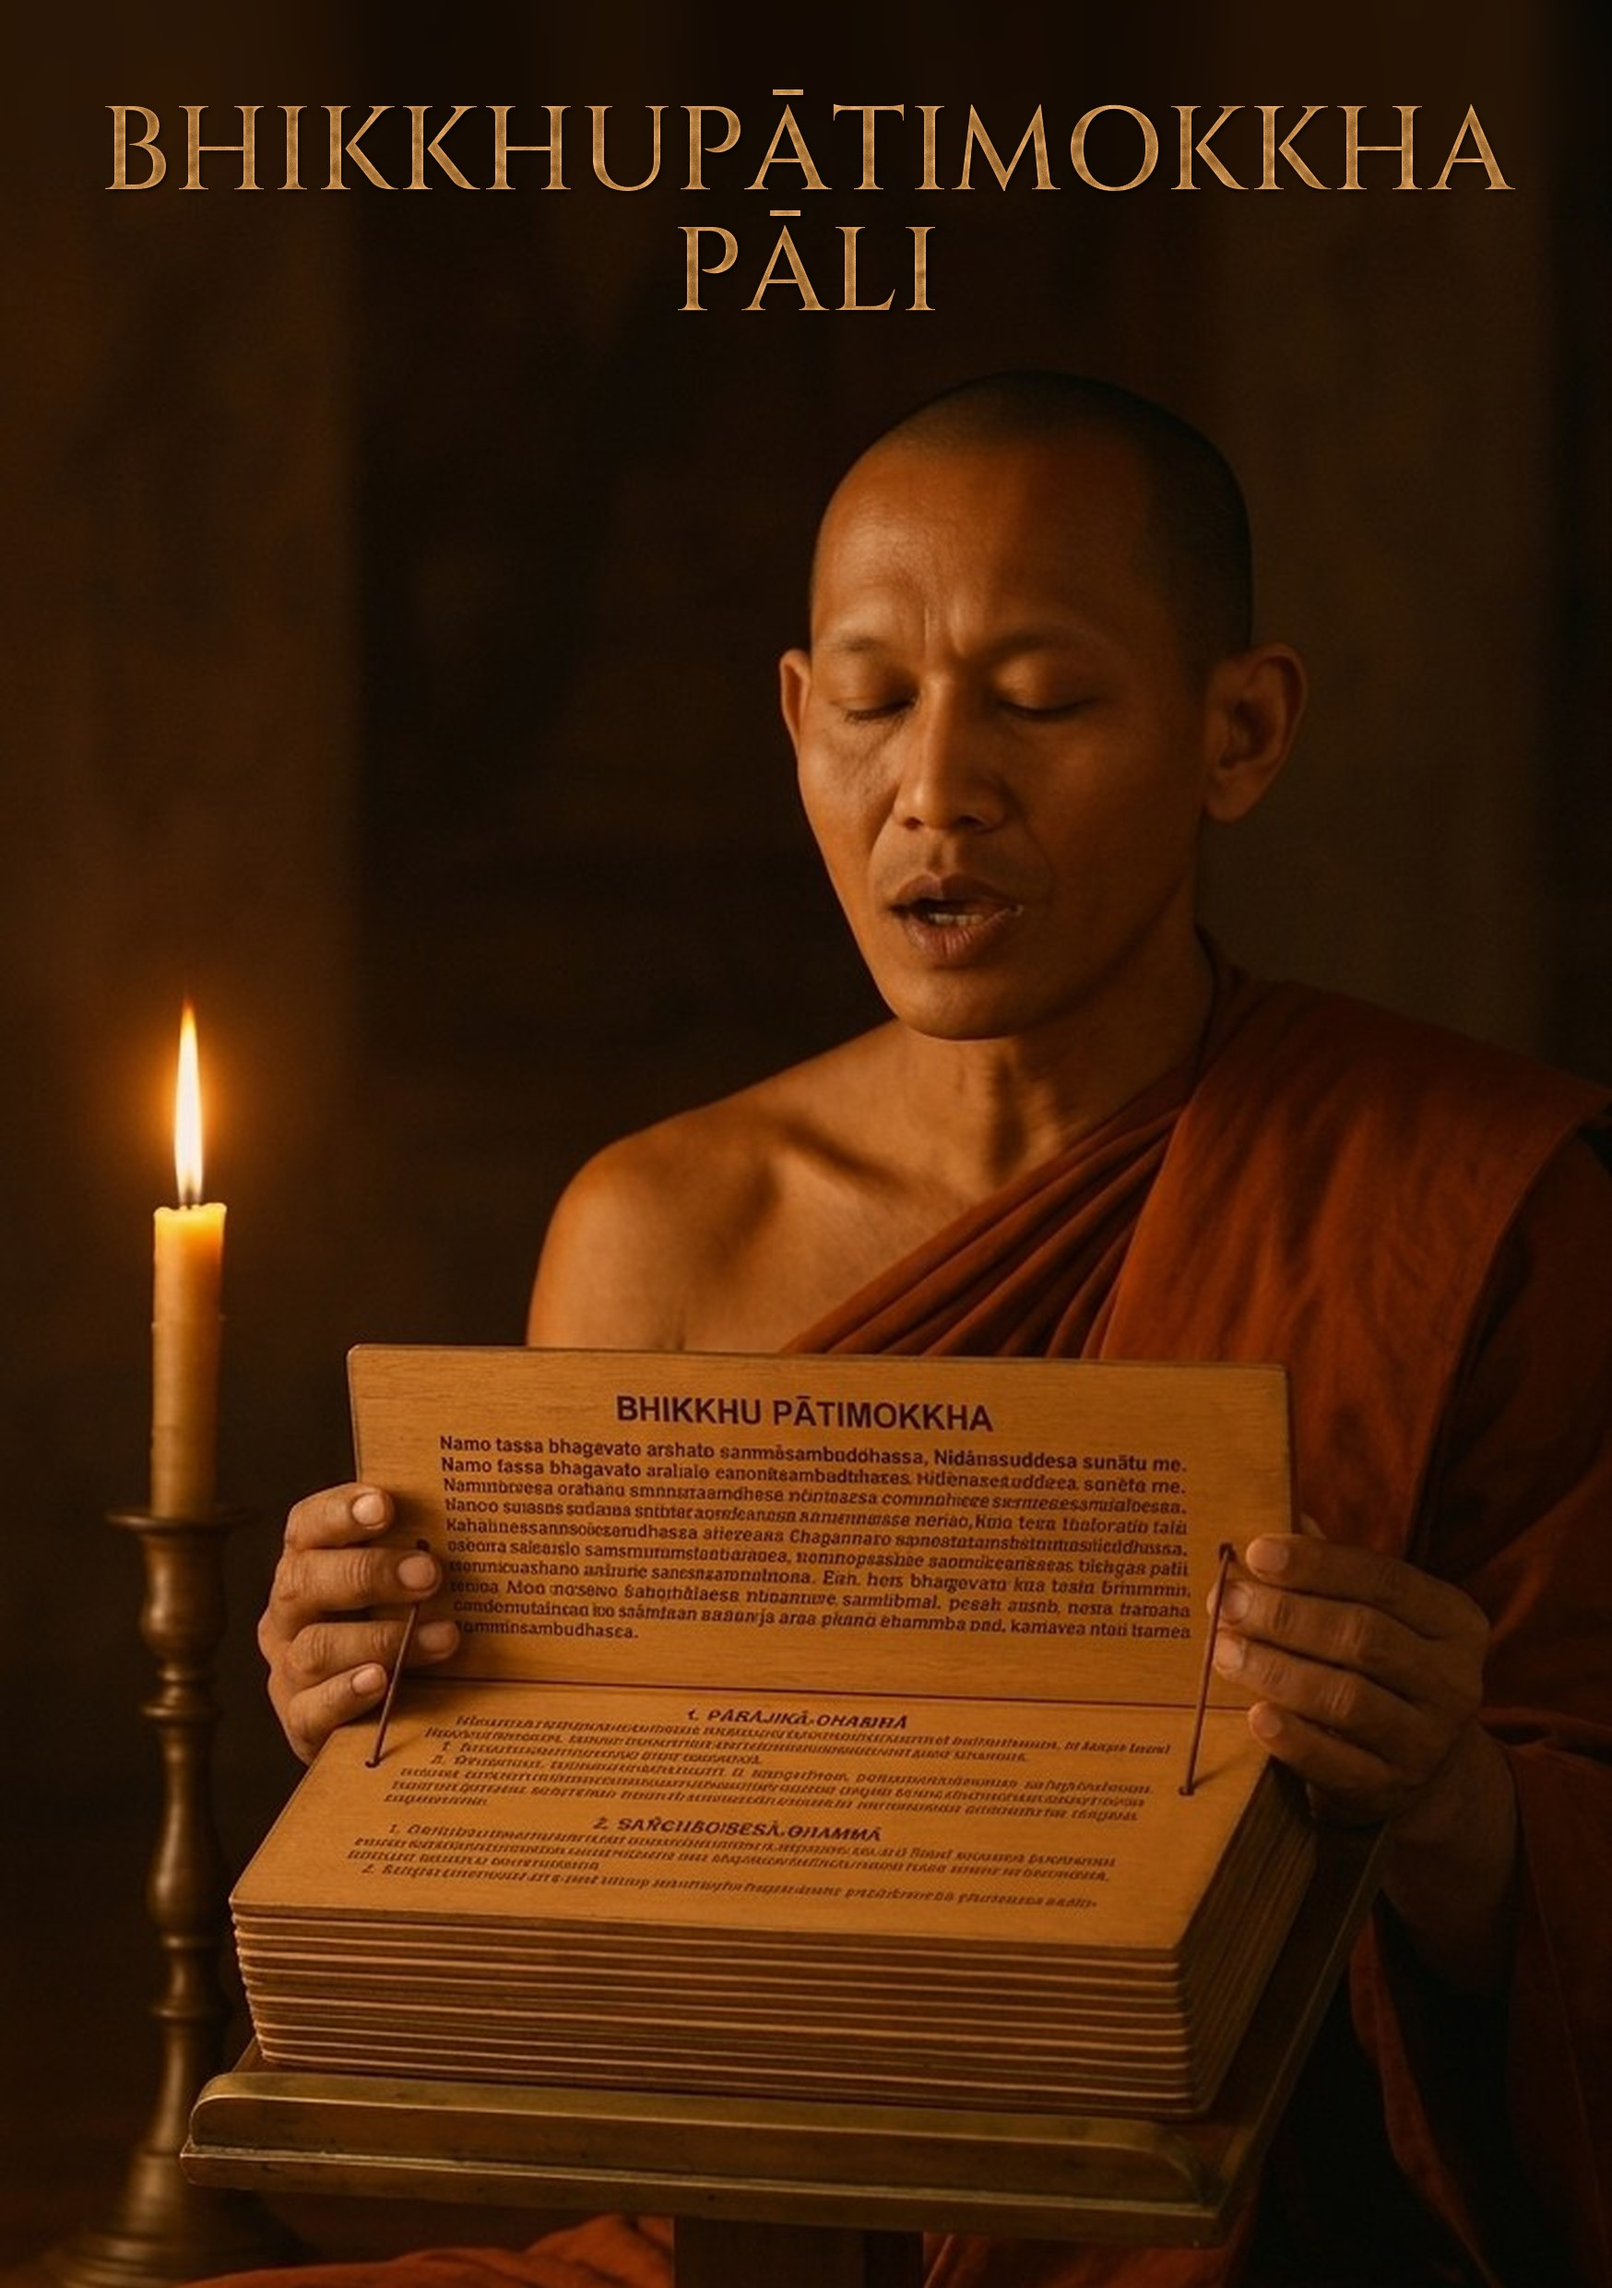
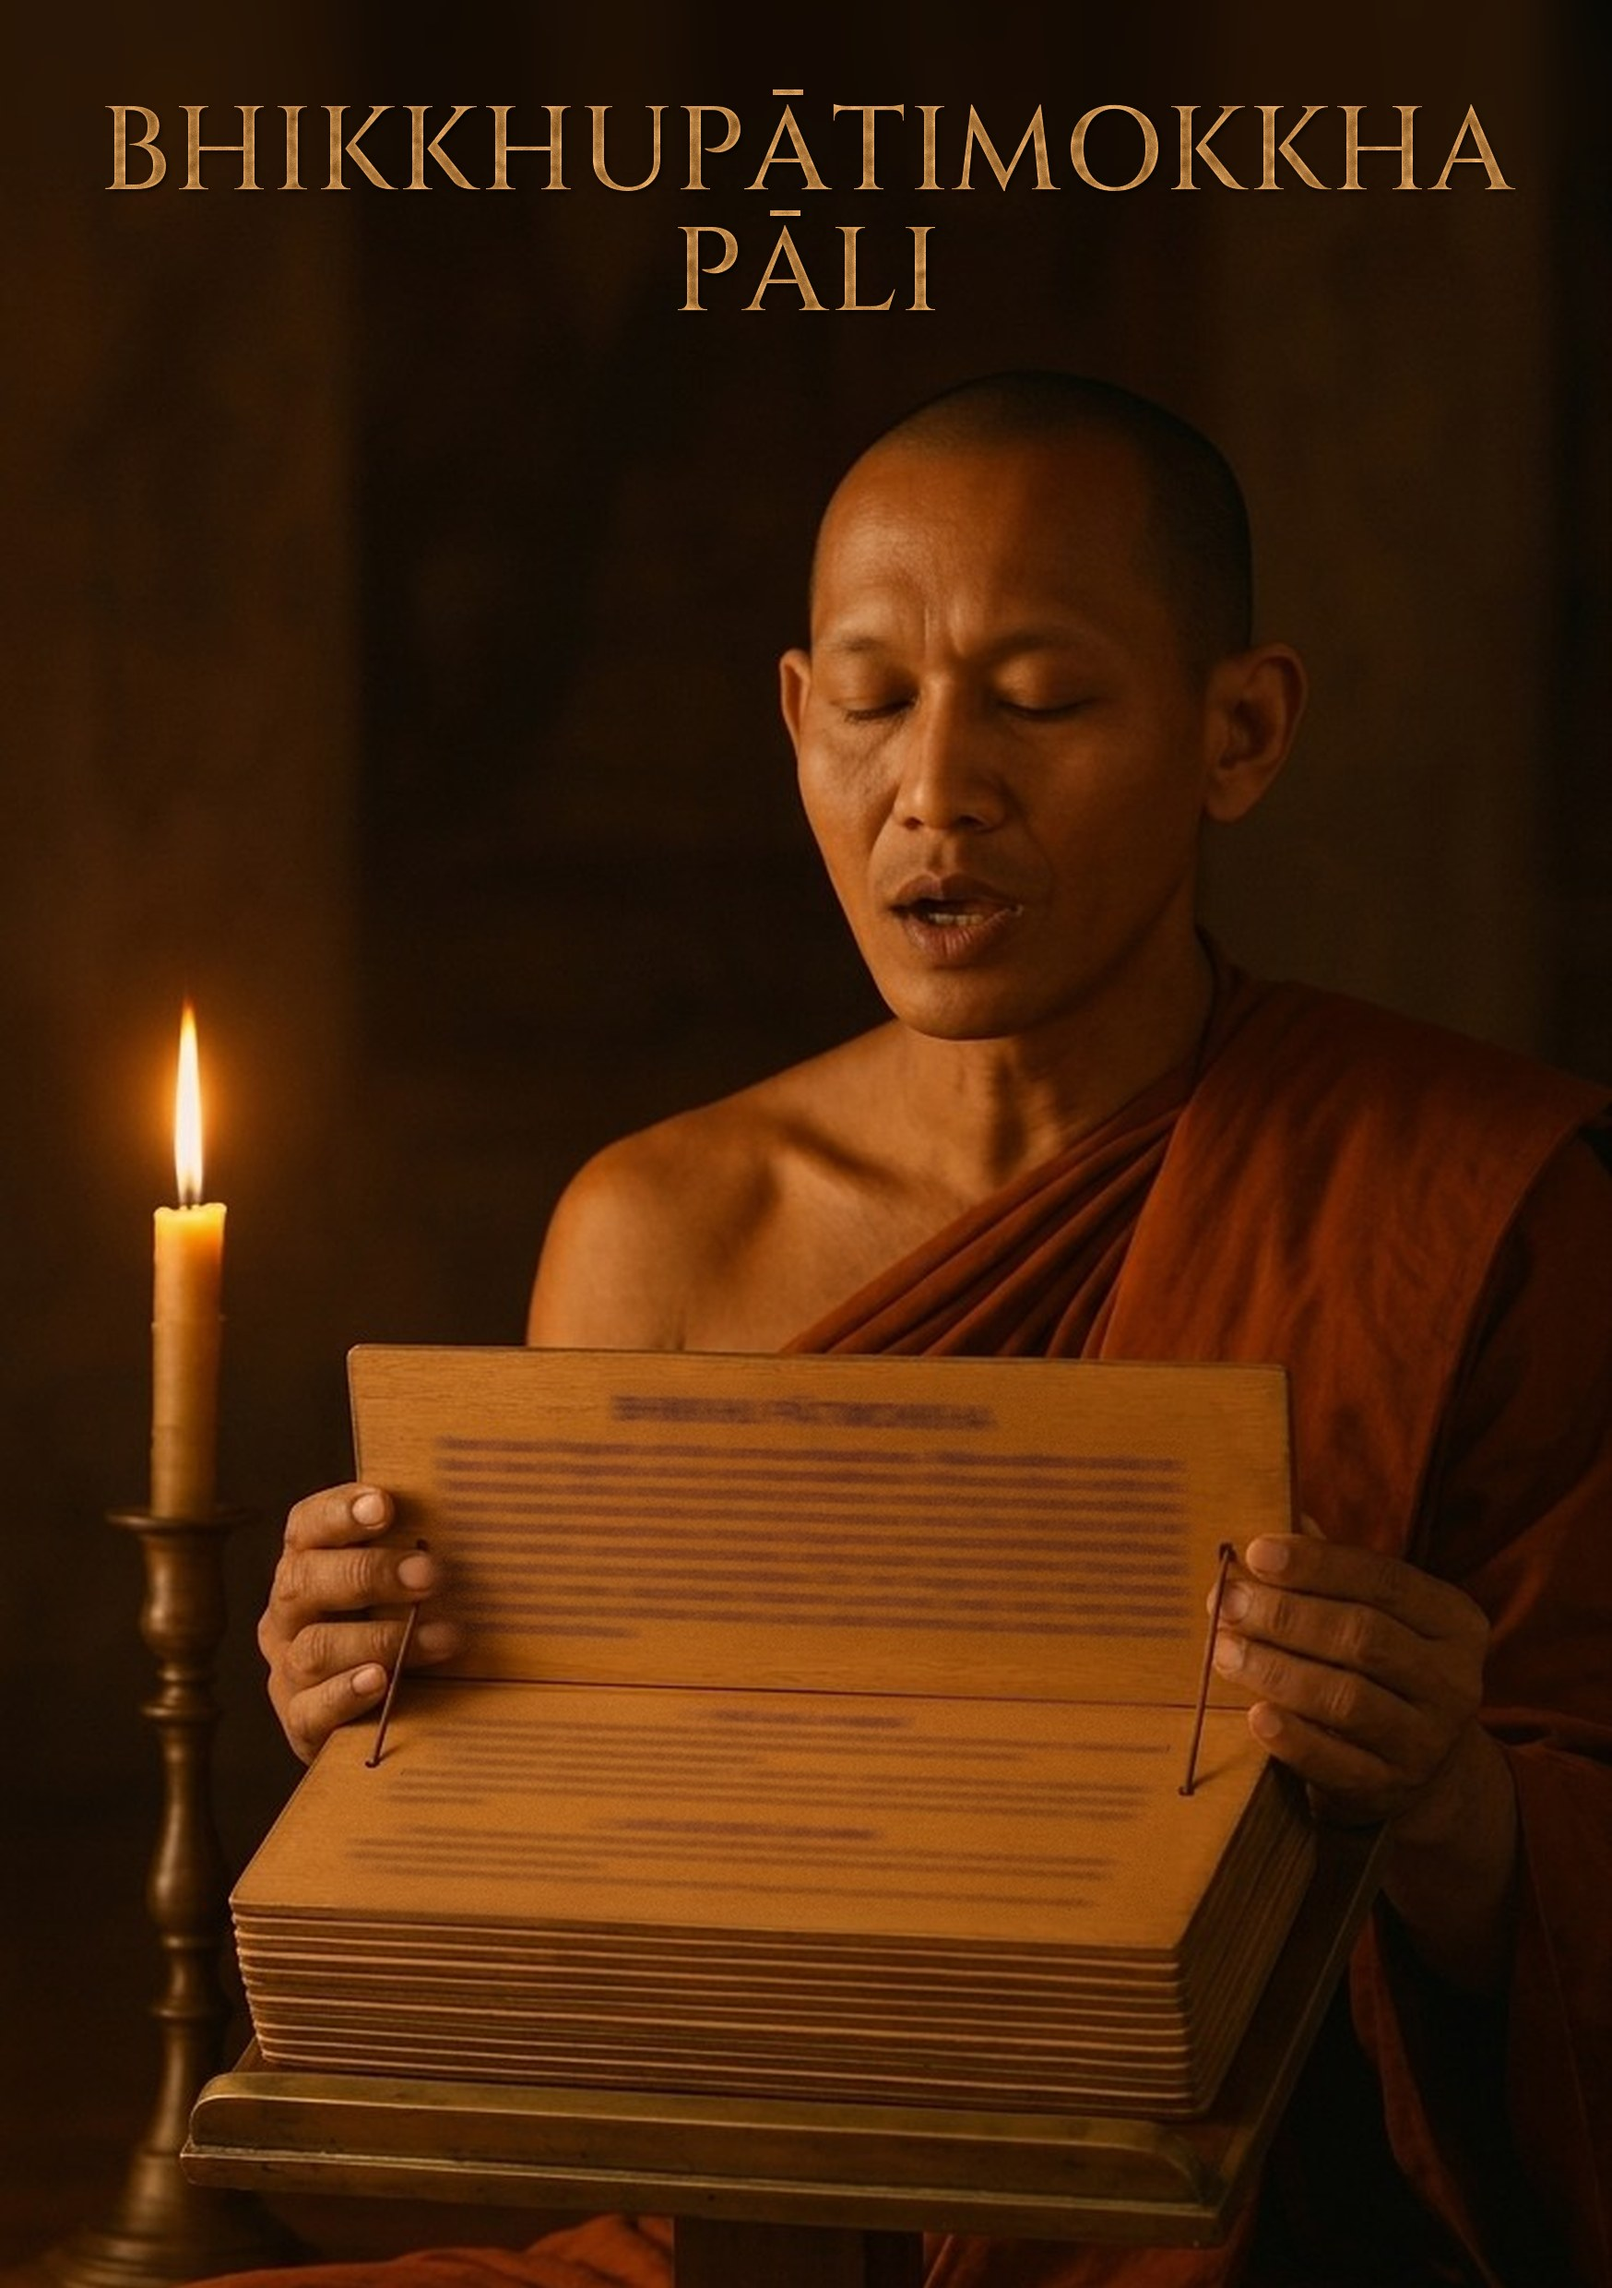
Blur the pseudo-text in the new pictures; EPUB Post-Pātimokkha links Pāli ↔ English
- Pāli and English chapter pictures: the AI-painted pseudo-text on the
  book pages ("BHIKKHU PĀTIMOKKHA", "PĀBAJIKĀ-DHABRA", "THE FIRST CKACH…")
  is blurred along the lines into faint, unreadable script. Hands, cords
  and page edges are untouched (ILLEGIBLE regions in section-titles.py).
- EPUB: the Post-Pātimokkha headings now link Pāli ↔ English within their
  page, matching the PDF (previously they went to the table of contents);
  removed the now-unused nav.xhtml ids.
- CLAUDE.md updated.

Claude-Session: https://claude.ai/code/session_01KQ2yfUidkNtdnxzdx8GaCt

Changed region(s): [[0.278, 0.5899, 0.7414, 0.7141], [0.2471, 0.7452, 0.5561, 0.8383]]

diff --git a/assets/bin/section-titles.py b/assets/bin/section-titles.py
@@ -81,6 +81,47 @@ def gold(img, mask, rng):
 
 PAGE = (1748, 2480)
 
+# Regions (in the untitled original's own pixels) whose painted pseudo-text is
+# blurred into faint, unreadable lines: polygons around the text on the book
+# pages, kept clear of the hands and the binding cords.
+ILLEGIBLE = {
+    'pali': [
+        [(288, 592), (500, 592), (500, 616), (288, 616)],                      # page title
+        [(204, 616), (568, 616), (568, 722), (204, 722)],                      # upper page
+        [(192, 742), (556, 742), (556, 780), (192, 780)],                      # lower page
+        [(160, 780), (556, 780), (556, 848), (160, 848)],
+    ],
+    'english': [
+        [(160, 744), (552, 744), (552, 800), (160, 800)],                      # title + upper page
+        [(172, 800), (552, 800), (552, 866), (172, 866)],
+        [(158, 866), (536, 866), (536, 896), (158, 896)],                      # lower page
+        [(114, 896), (536, 896), (536, 945), (114, 945)],
+        [(114, 945), (522, 945), (522, 988), (114, 988)],
+    ],
+}
+
+
+def illegible(img, polys, seed=3):
+    """Blur the text in polys along the lines so it reads as faint, distant script."""
+    from PIL import ImageDraw
+    w, h = img.size
+    mask = Image.new('L', (w, h), 0)
+    d = ImageDraw.Draw(mask)
+    for poly in polys:
+        d.polygon(poly, fill=255)
+    mask = mask.filter(ImageFilter.GaussianBlur(2))
+    a = np.asarray(img, float)
+    k = 6                                   # horizontal smear (box blur along rows)
+    pad = np.pad(a, ((0, 0), (k, k), (0, 0)), mode='edge')
+    cs = np.cumsum(pad, axis=1)
+    hb = ((cs[:, 2 * k:] - cs[:, :-2 * k]) / (2 * k))[:, :w]
+    soft = np.asarray(Image.fromarray(hb.clip(0, 255).astype(np.uint8)).filter(ImageFilter.GaussianBlur(0.8)), float)
+    paper = np.asarray(img.filter(ImageFilter.GaussianBlur(8)), float)
+    soft = paper + (soft - paper) * 0.7     # fade the lines towards the paper colour
+    soft += np.random.default_rng(seed).normal(0, 3.0, soft.shape[:2])[..., None]   # paper grain
+    m = np.asarray(mask, float)[..., None] / 255
+    return Image.fromarray((a * (1 - m) + soft * m).clip(0, 255).astype(np.uint8))
+
 
 def fit_width(img):
     """Scale to the page width; a taller picture is trimmed at the bottom later."""
@@ -109,7 +150,10 @@ def shift_down(img, dy):
 
 
 def make(name, lines, size, y0, gap, dy, seed=7):
-    img = fit_width(Image.open(os.path.join(SRC, name + '.jpg')).convert('RGB'))
+    img = Image.open(os.path.join(SRC, name + '.jpg')).convert('RGB')
+    if name in ILLEGIBLE:
+        img = illegible(img, ILLEGIBLE[name])
+    img = fit_width(img)
     img = shift_down(img, dy)
     w, h = img.size
     full = np.zeros((h, w), float)

diff --git a/CLAUDE.md b/CLAUDE.md
@@ -38,8 +38,8 @@
   The front cover is 864×1227 (EPUB `cover-image`).
 - EPUB titles: every h1–h3 is a link and uses the PDF's link colour, #60291f (sbs-brown), in `main.css`.
   Pāli/English sections, vaggas and brief-recitation Levels link to their partner heading.
-  `tex2epub.py` does this automatically (`PAIRS`, `link_partner_headings`). The Post-Pātimokkha headings
-  (Pāli and English) link to their entry in `nav.xhtml` (`#toc-…`). Don't link to `contents.xhtml`:
+  `tex2epub.py` does this automatically (`PAIRS`, `link_partner_headings`). The Post-Pātimokkha headings link Pāli ↔ English within their page
+  (e.g. `pubba-bhaga.xhtml#pubba-bhaga-english`), matching the PDF. Don't link to `contents.xhtml`:
   it isn't in the manifest, so epubcheck reports RSC-008.
 - PDF heading links: `\linkheadingto{label}` before a \section/\subsection makes that title link to
   `label` (anecdote.cls `\headinglinktarget`; default is the table of contents). Every Pāli section, vagga,
@@ -50,6 +50,8 @@
   which reads the untitled originals in `assets/illustrations/untitled/` and uses Cinzel Medium
   (`assets/fonts/cinzel`, OFL). The Pāli and English pictures (the user's 768×1376 images; the western
   monk is English) are scaled to page width (2.3×), moved down 150 px for the title and trimmed at the bottom.
+  Their painted pseudo-text on the book pages is blurred into faint, unreadable lines (`ILLEGIBLE` regions in
+  `section-titles.py`, in the original images' pixel coordinates).
   The Appendix picture already had its title painted in, so it is not regenerated.
 - English spelling decisions: clothweavers, sheepwool, extraordinary, ninefold, "rains bathing-cloth".
   Pāli: sammāsambuddhena (unhyphenated). Pāc 91 keeps "Vassikasāṭikāsikkhāpada" (user's decision).
